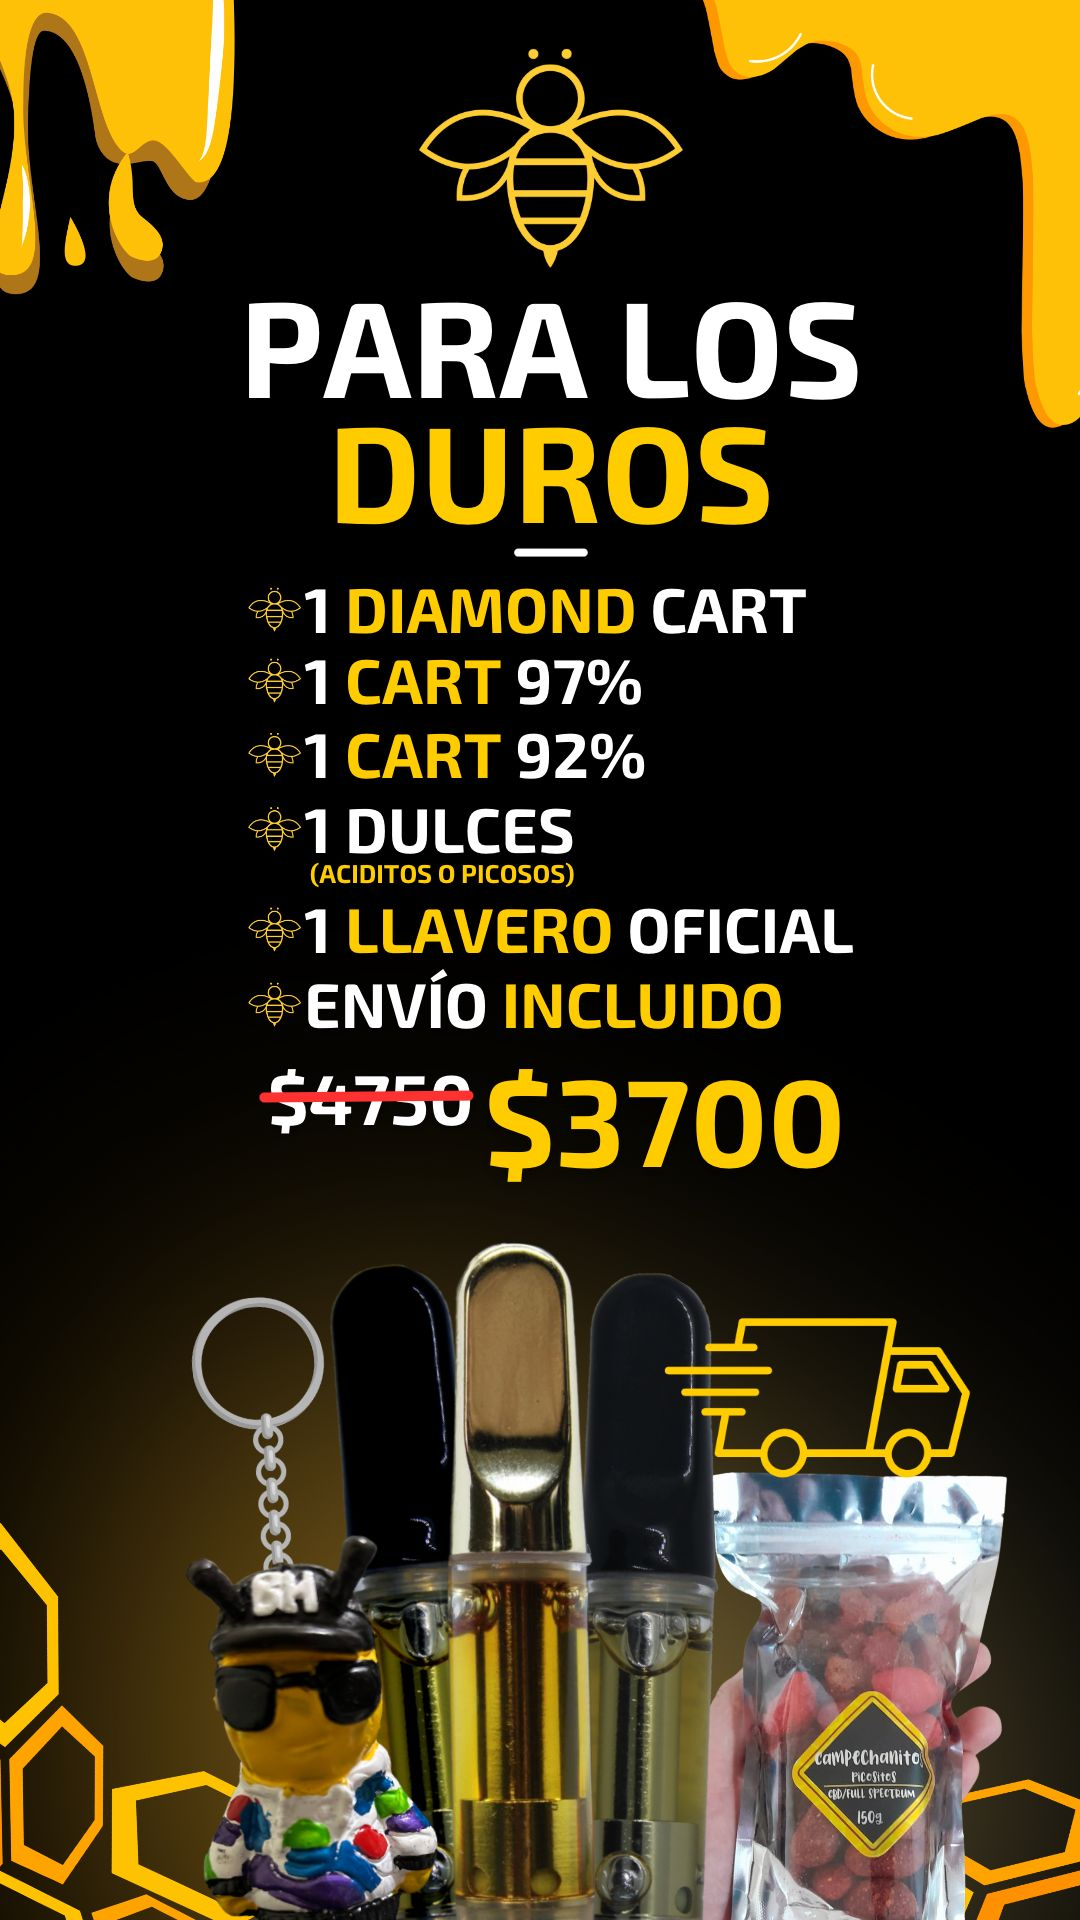
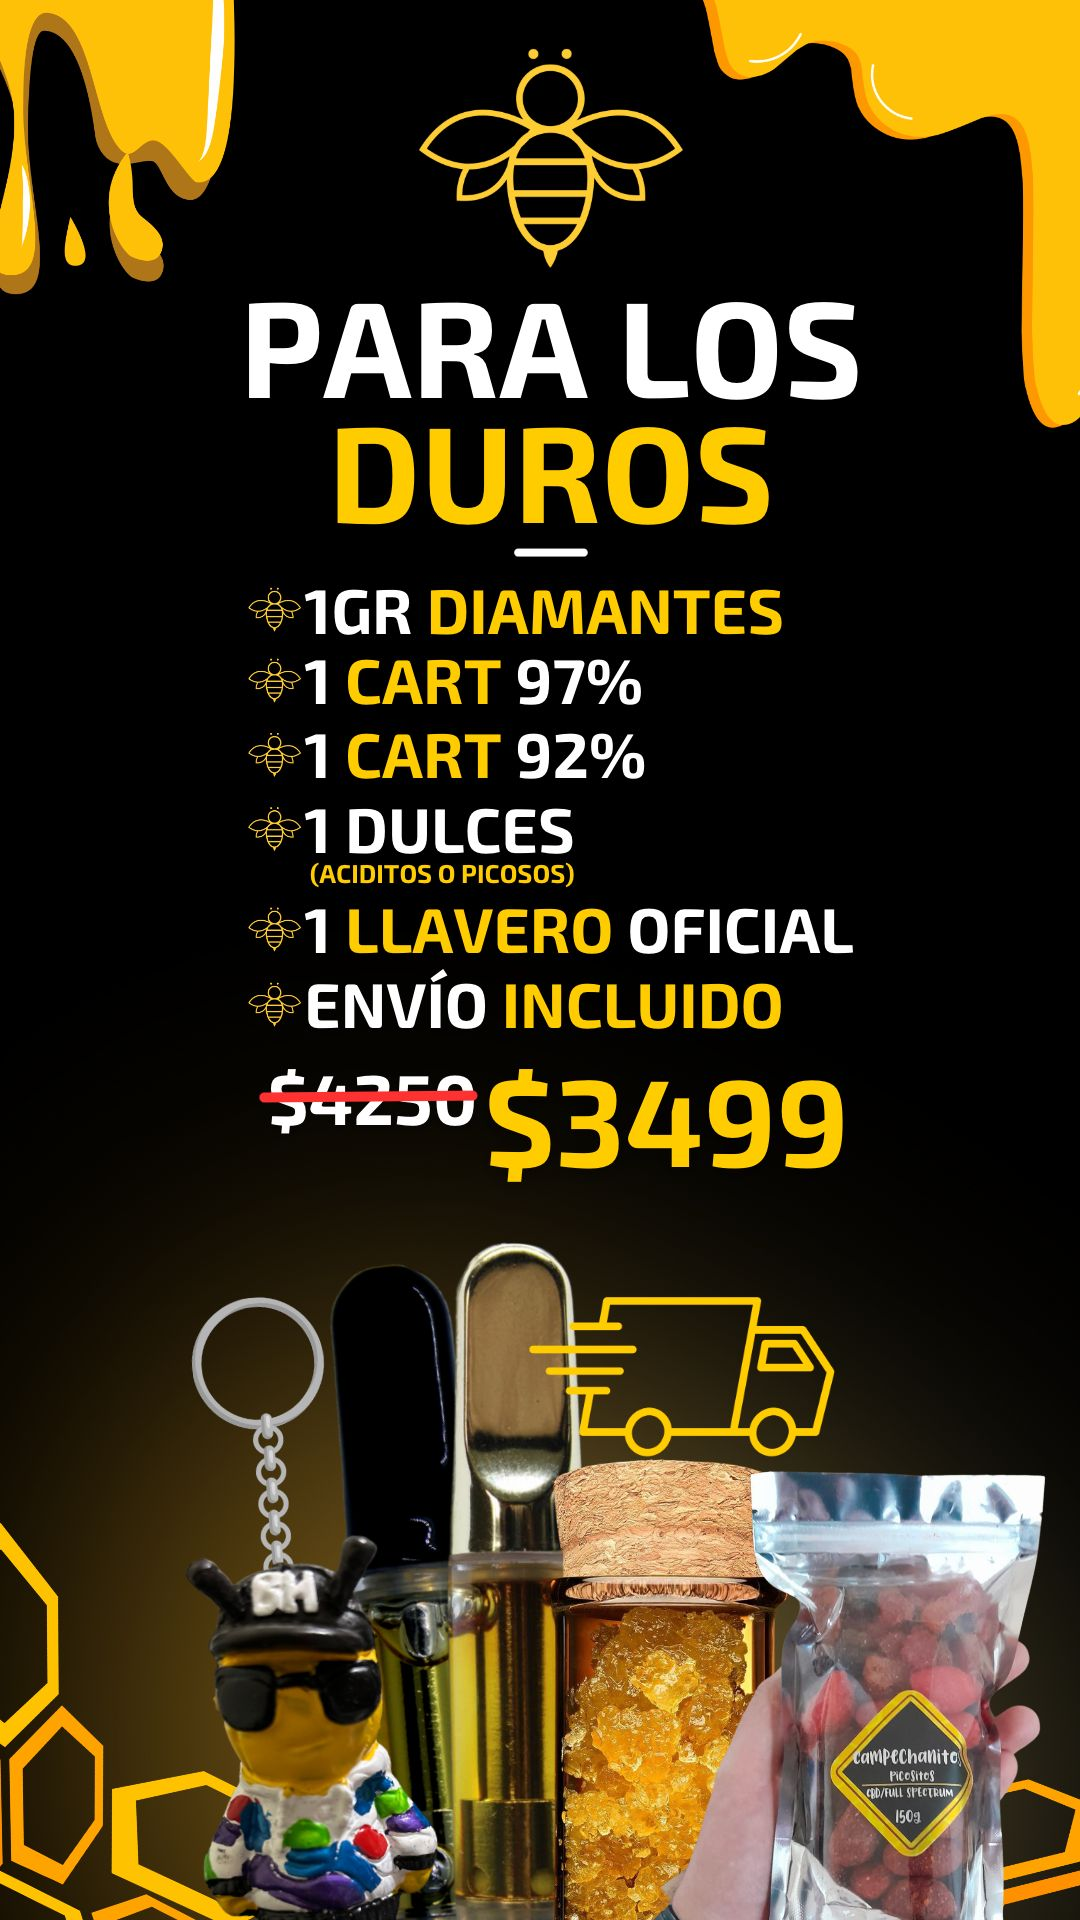
add

diff --git a/home.html b/home.html
@@ -85,6 +85,13 @@
 
             <article class="slide">
                 <div class="infoProducto">
+                    <img src="/media/paralosduros.jpg" alt="Promo1" class="imagenPromo"> <!--dejar esta promo siempre-->
+                </div>
+            </article>
+
+
+            <article class="slide">
+                <div class="infoProducto">
                     <img src="/media/paracomenzar.jpg" alt="Promo1" class="imagenPromo"> <!--dejar esta promo siempre-->
                 </div>
             </article>
